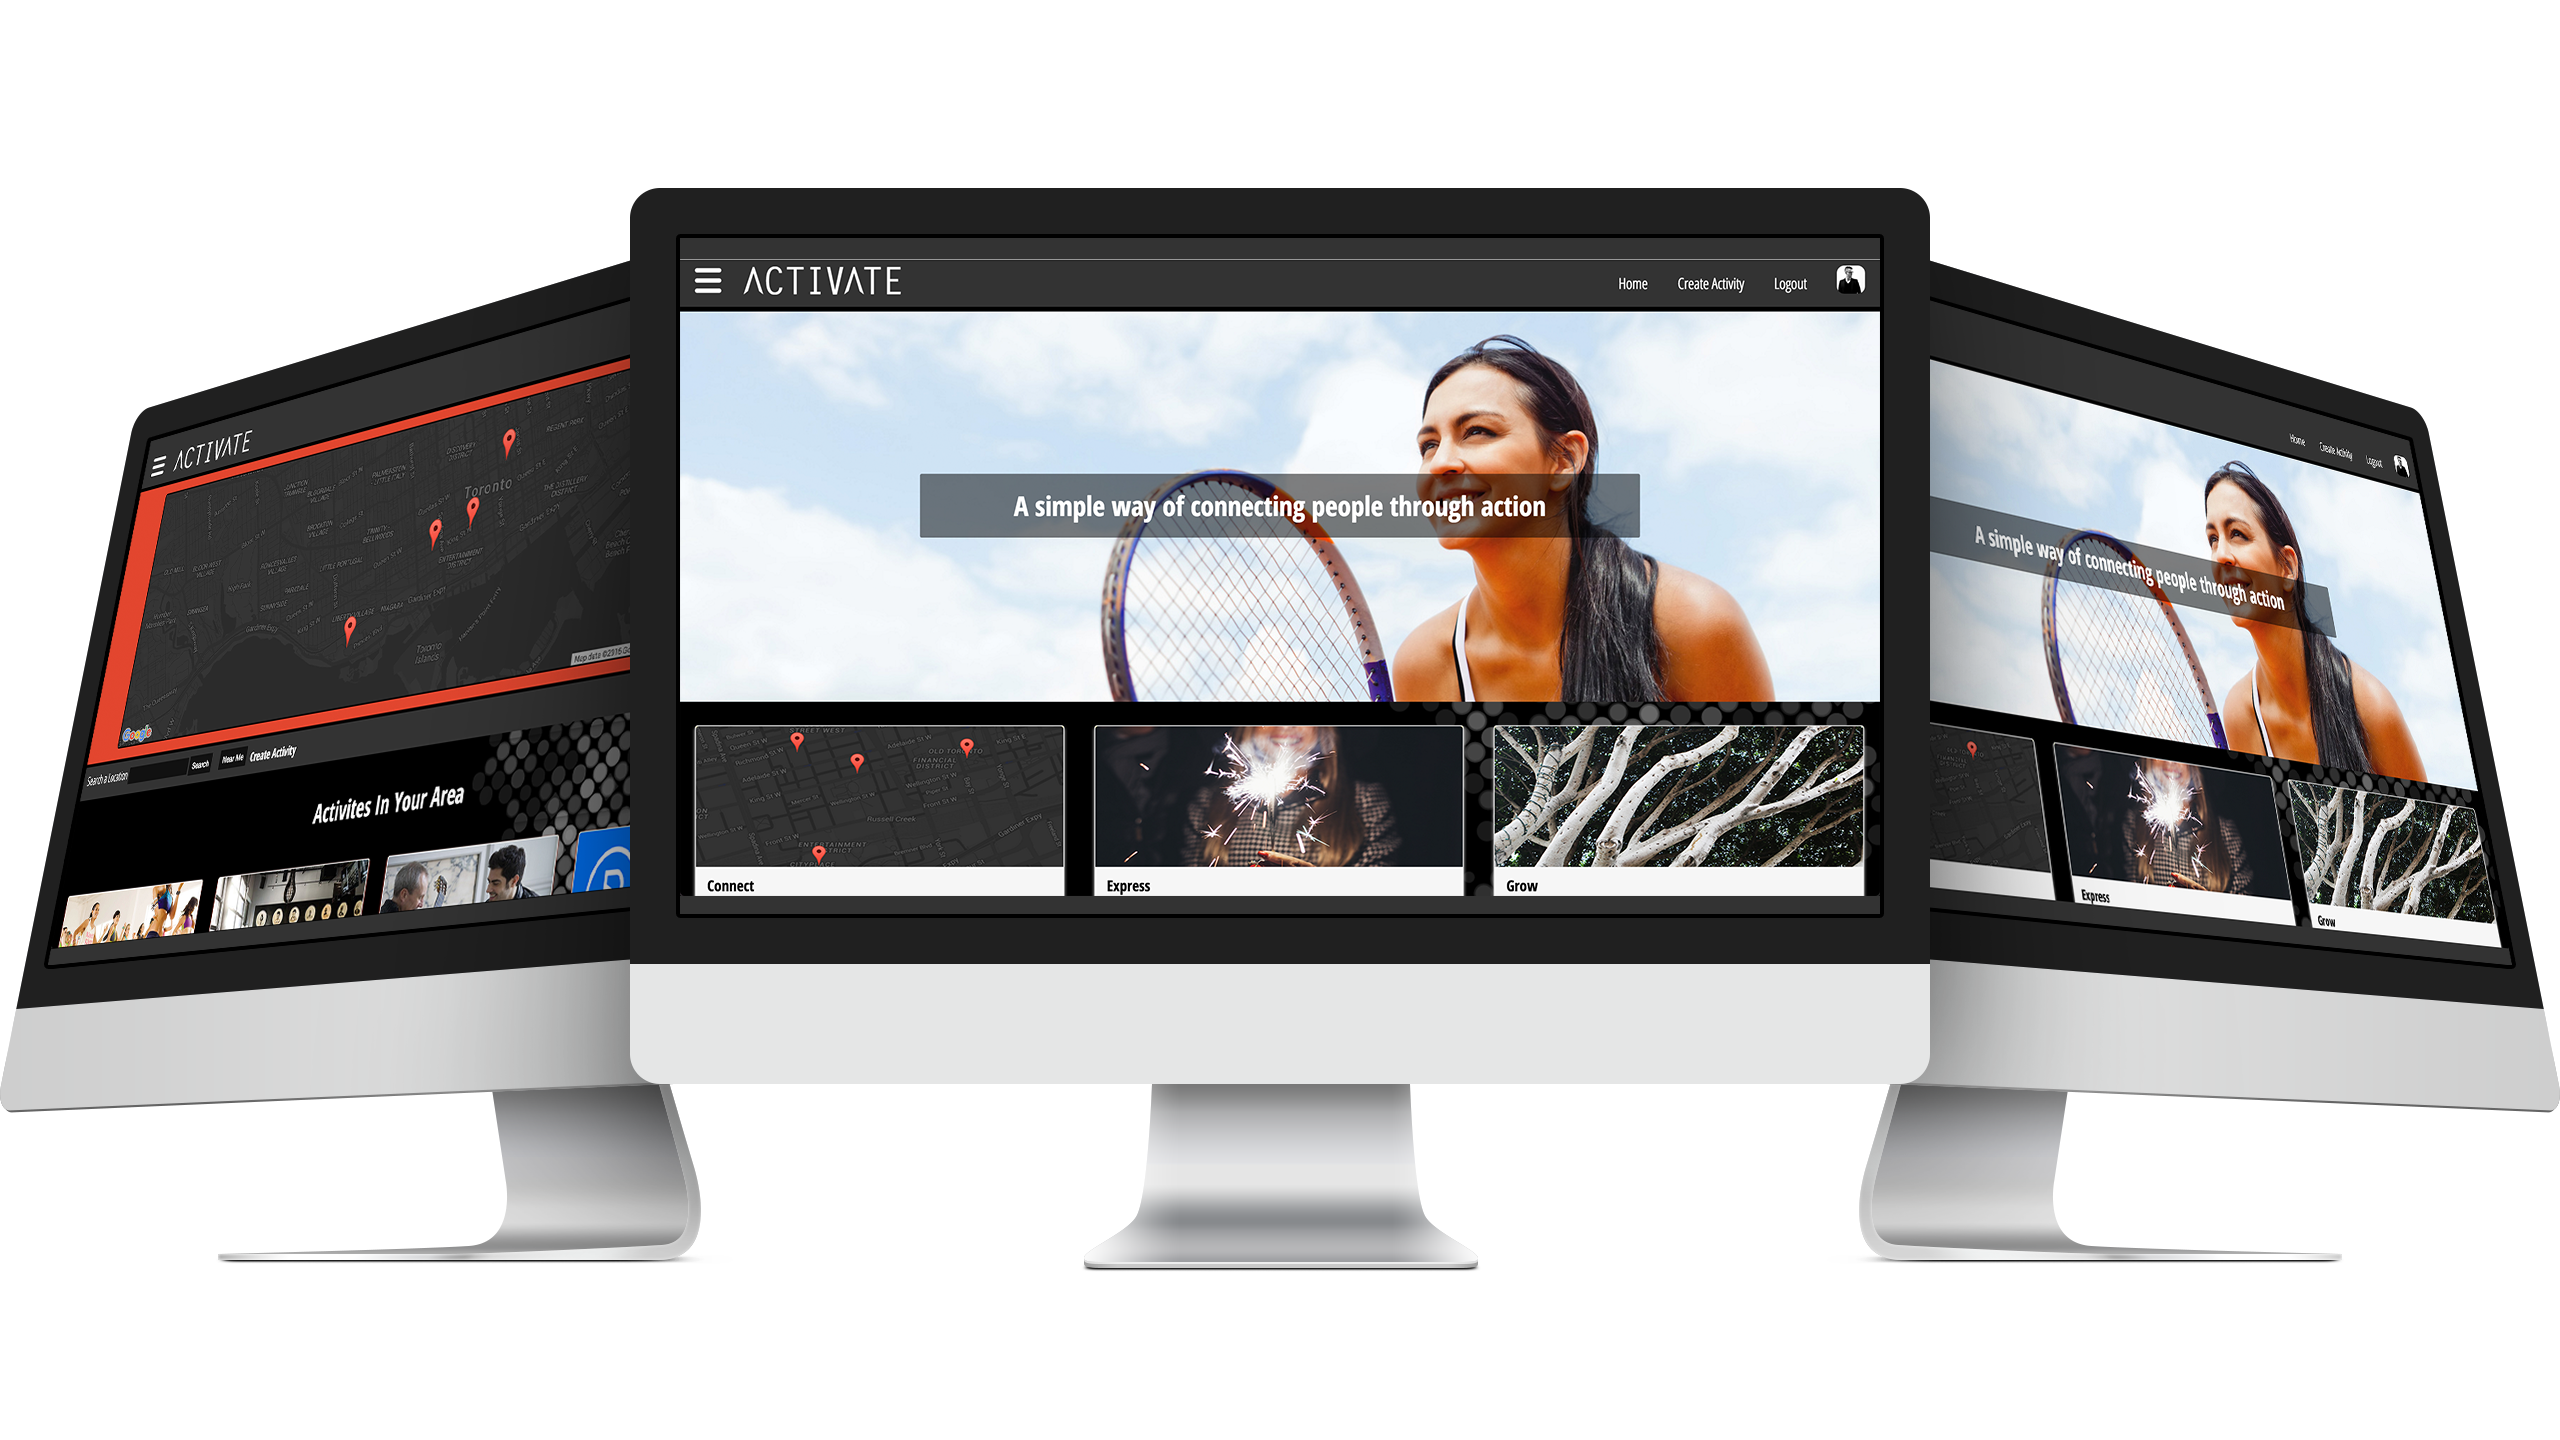
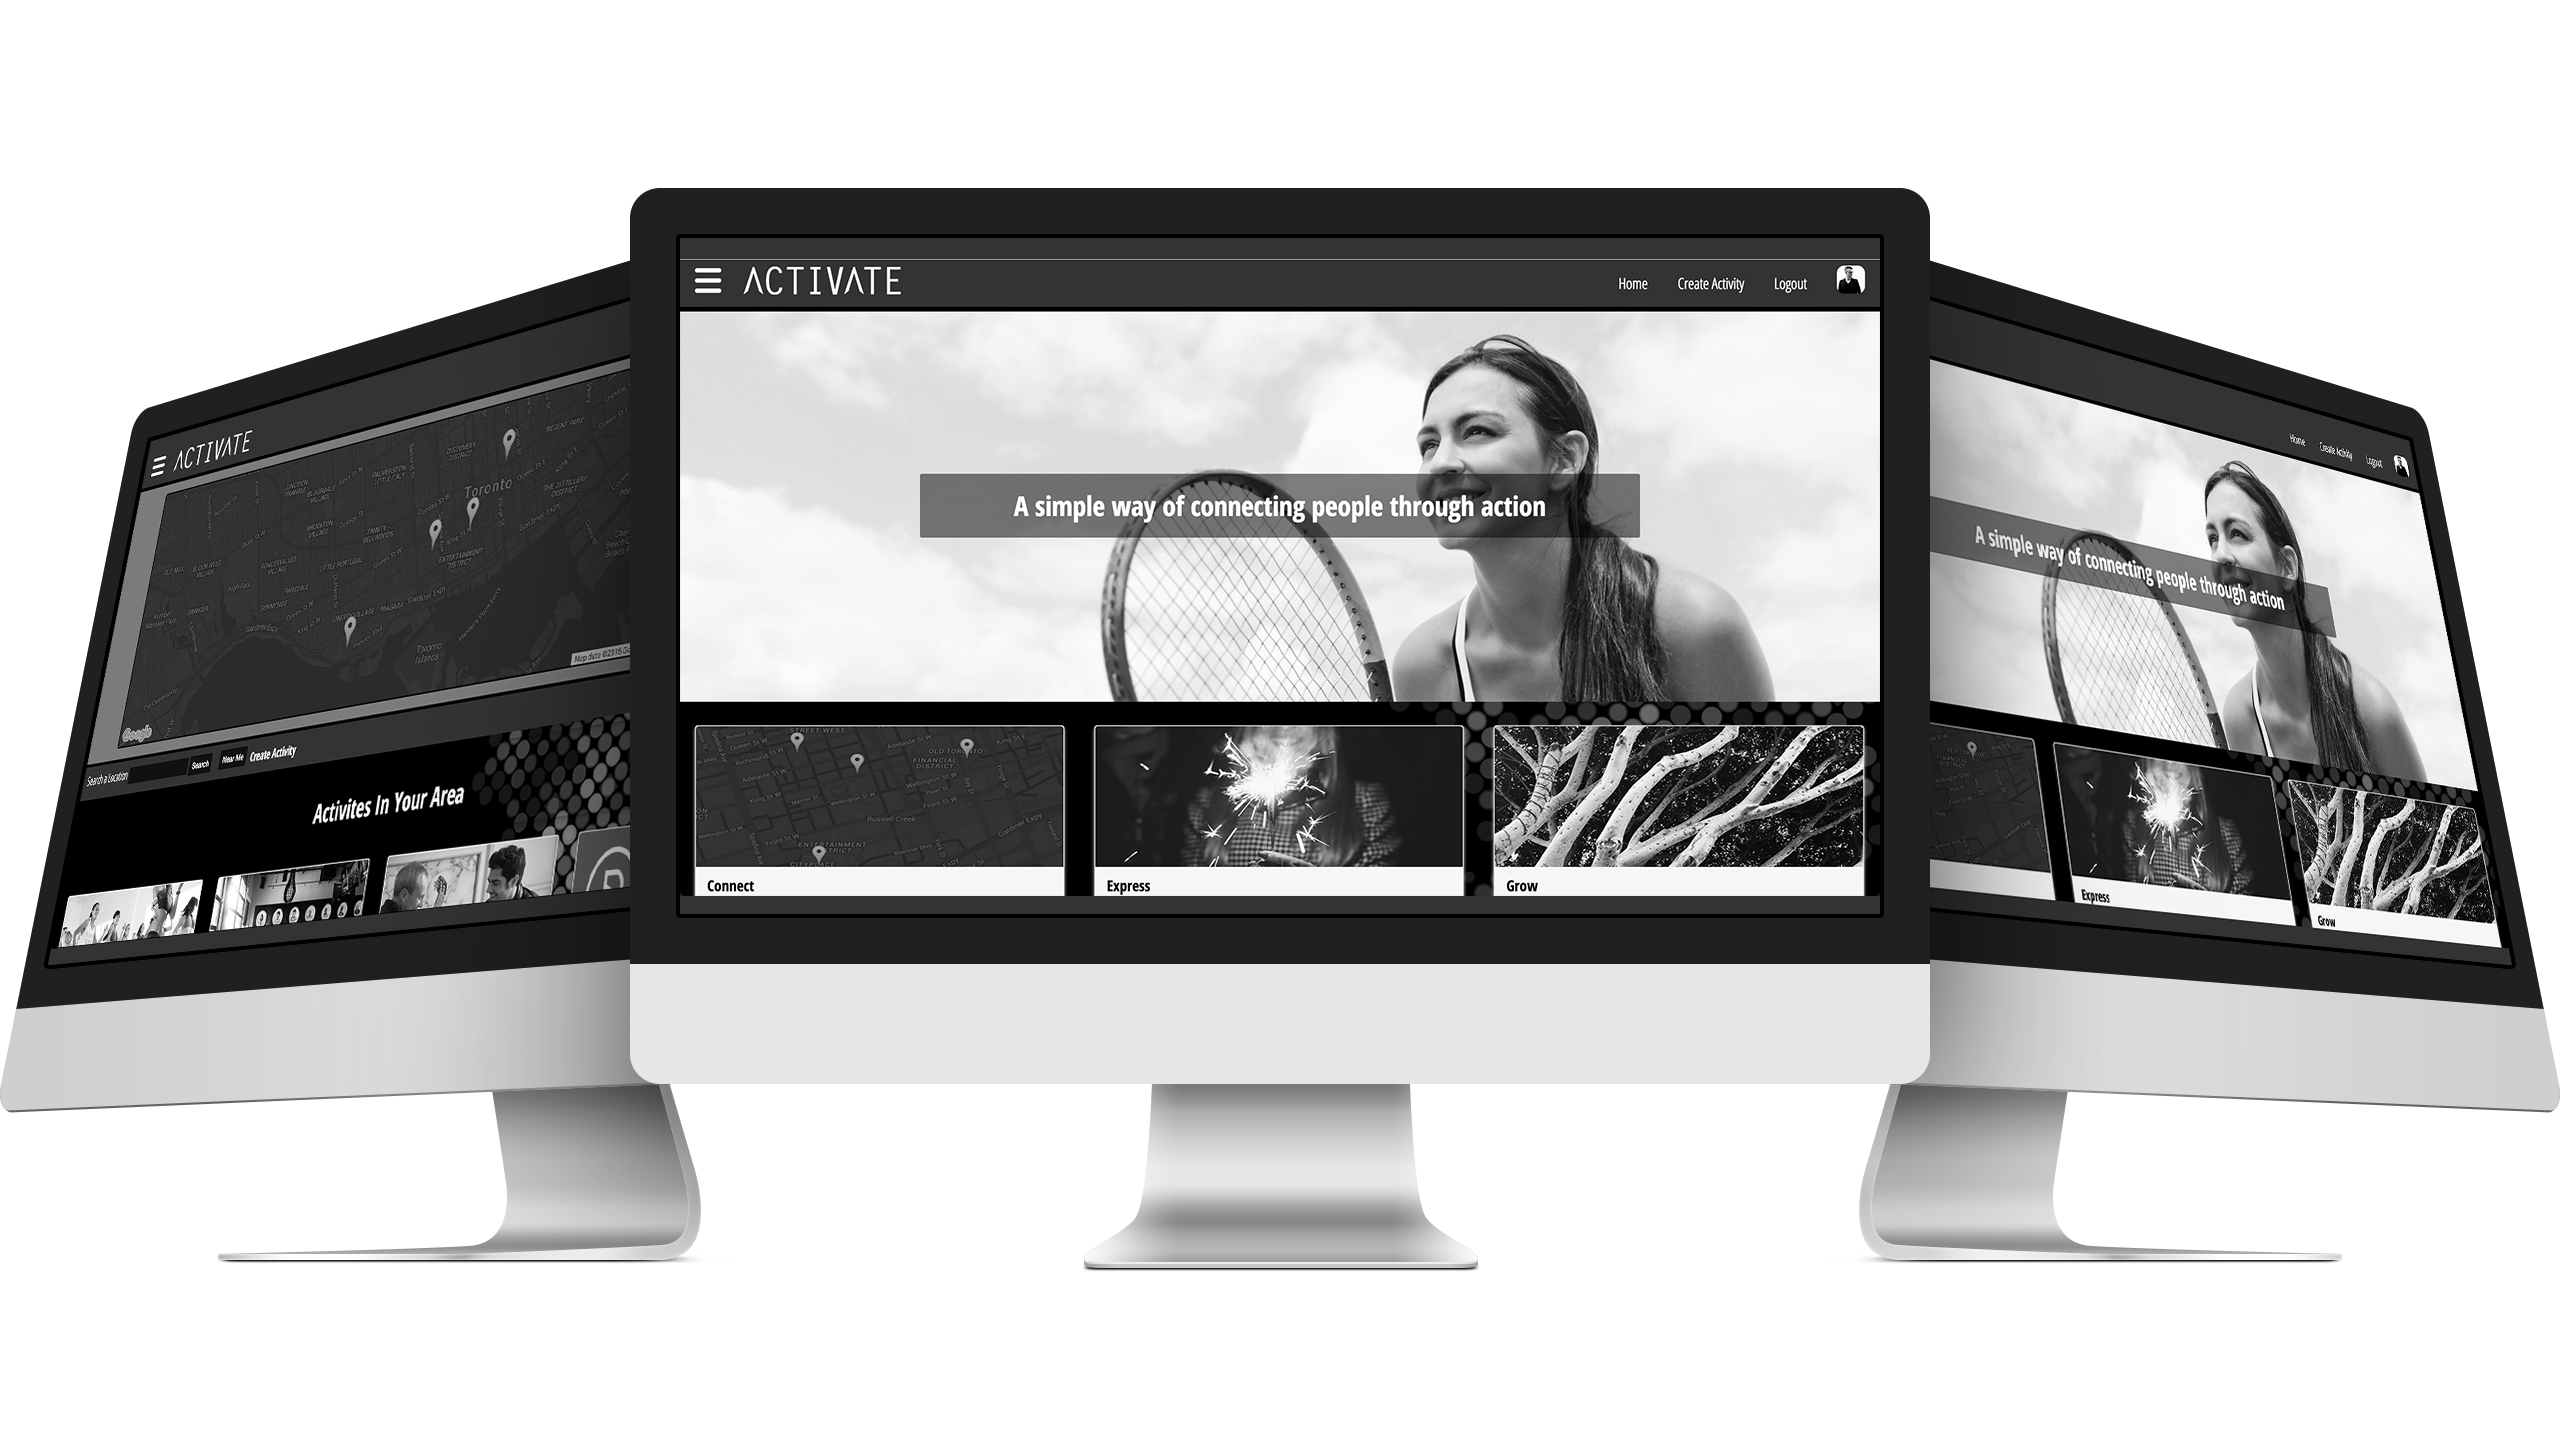
black and white switch on portfolio

diff --git a/index.html b/index.html
@@ -274,7 +274,7 @@
 <div id="rockstar" class="lightbox fade"  tabindex="-1" role="dialog" aria-hidden="true">
     <div class='lightbox-dialog'>
         <div class='lightbox-content'>
-            <img src="img/portfolio/rockstar-big.png">
+            <img src="img/portfolio/imac-activate-mockup.png">
             <div class='lightbox-caption'>
                 Rockstar Crush the Can
             </div>
